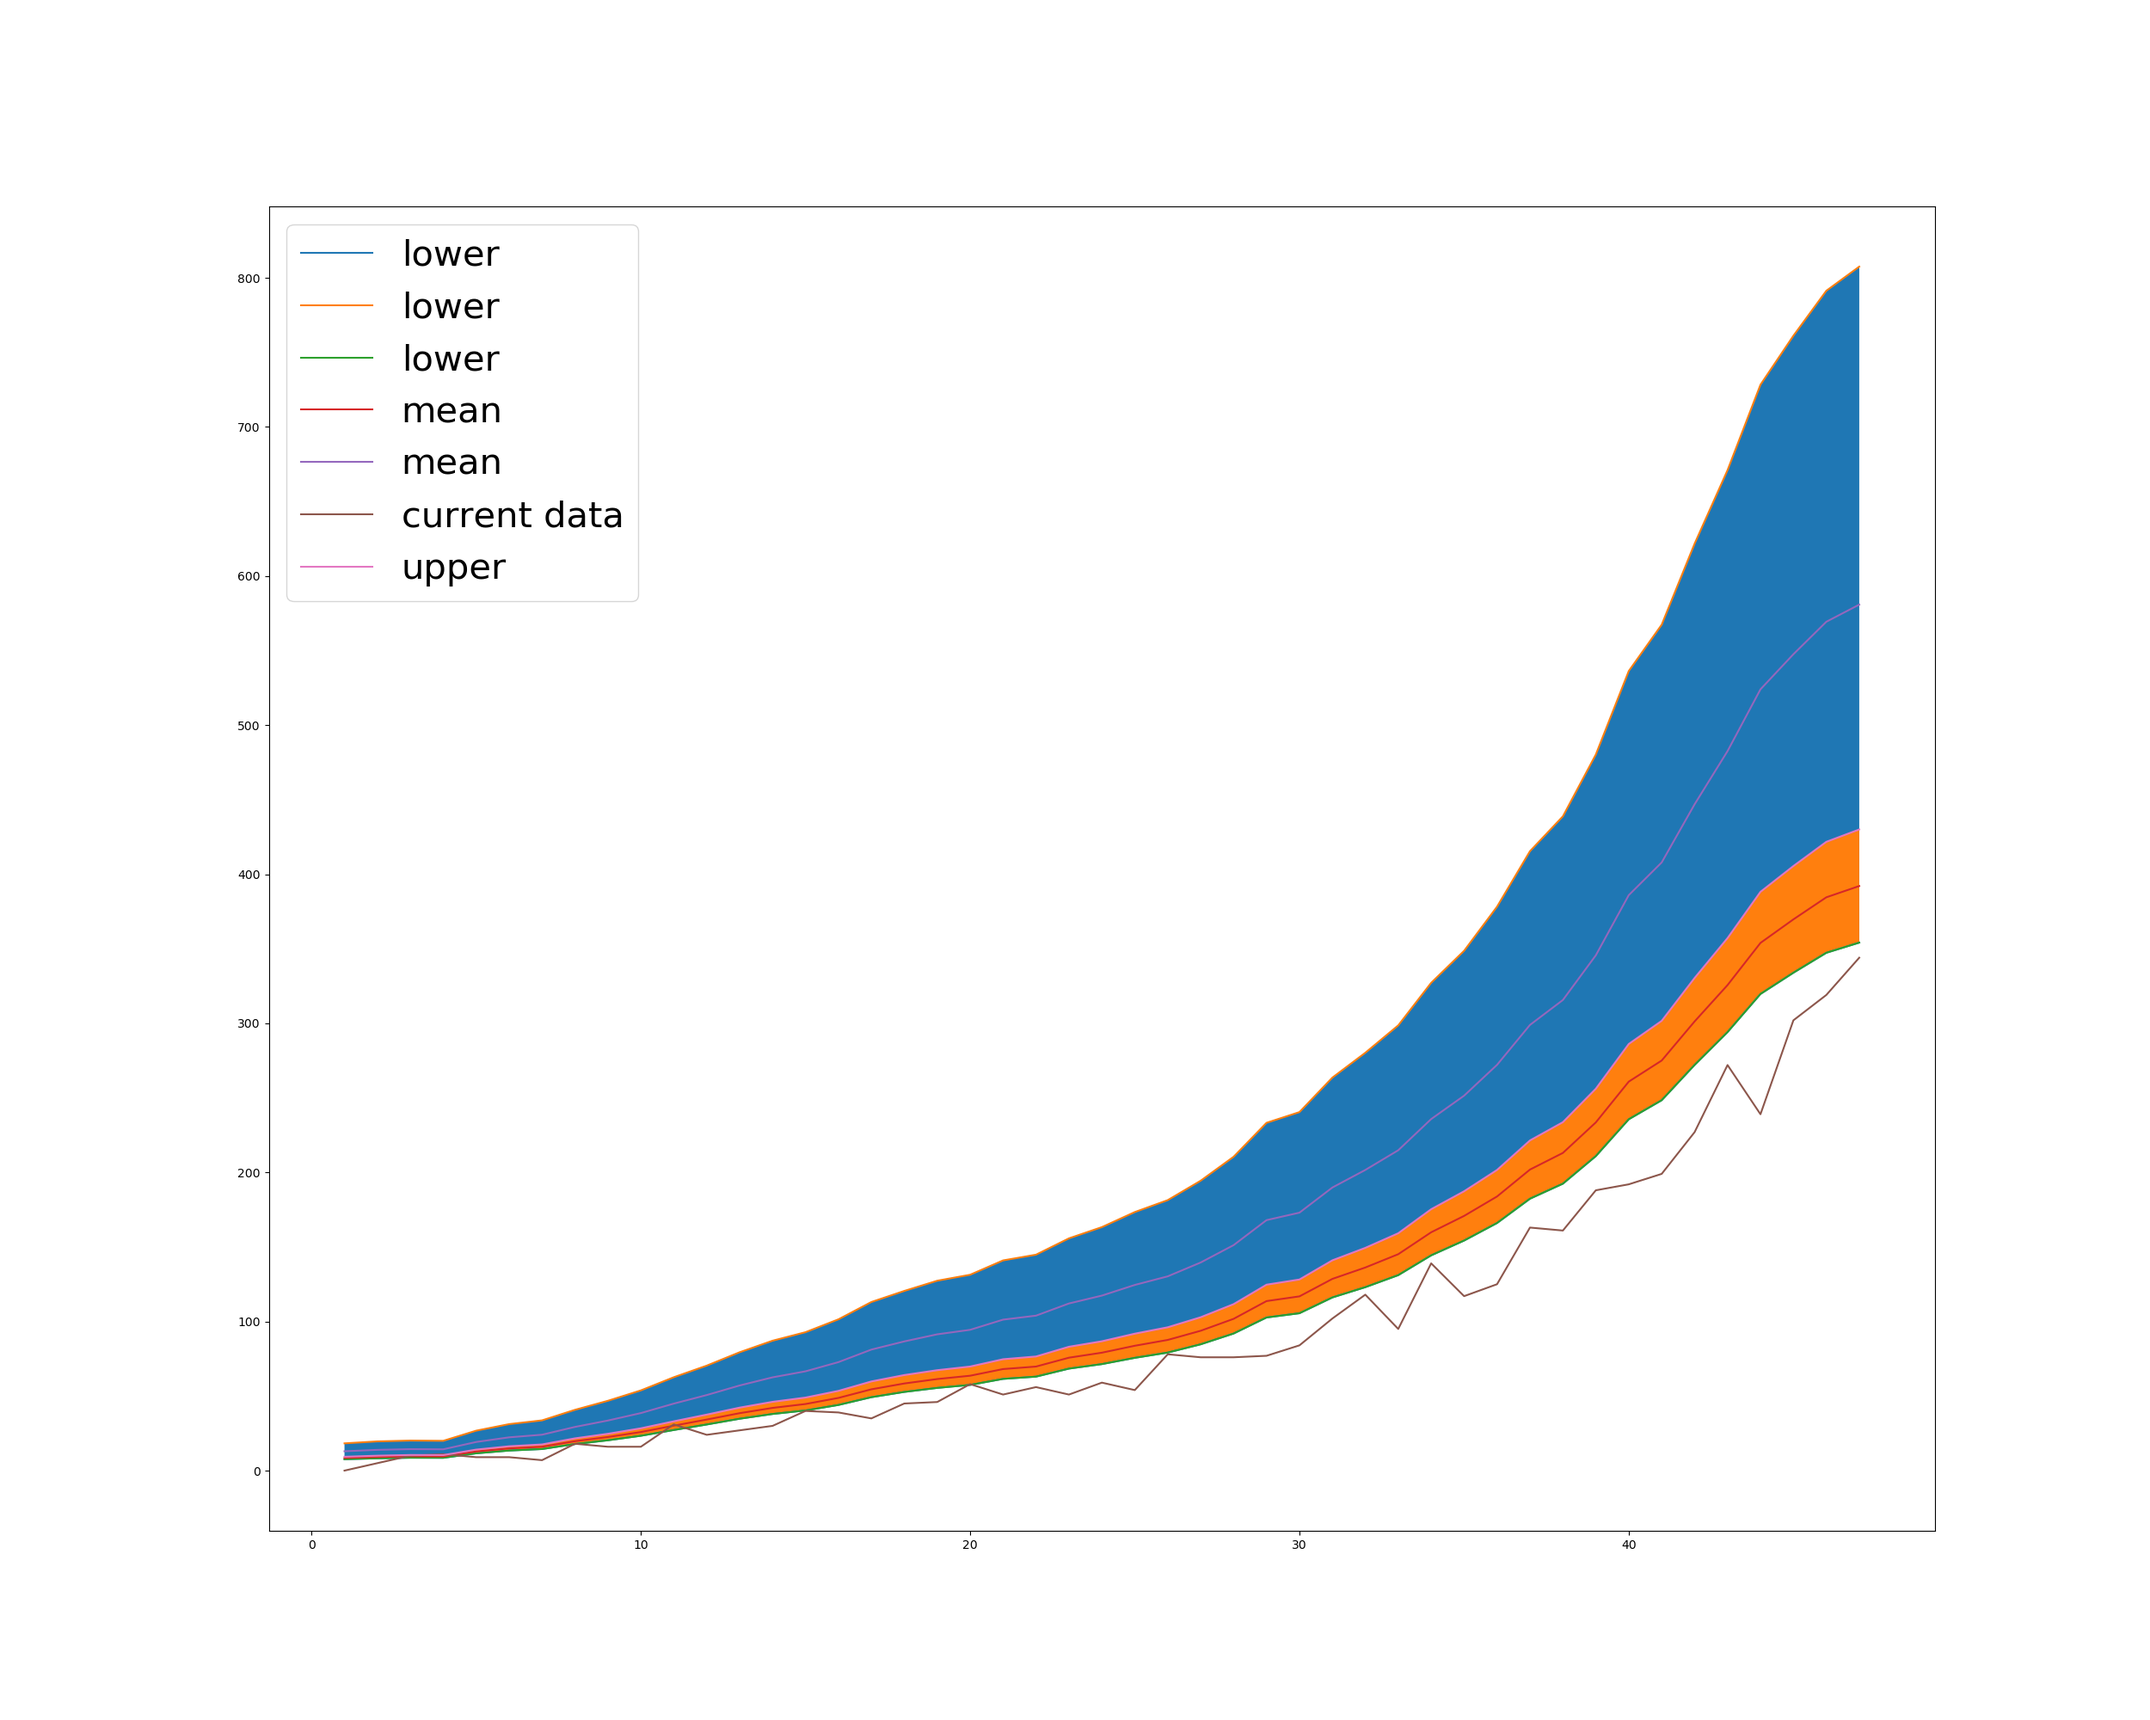
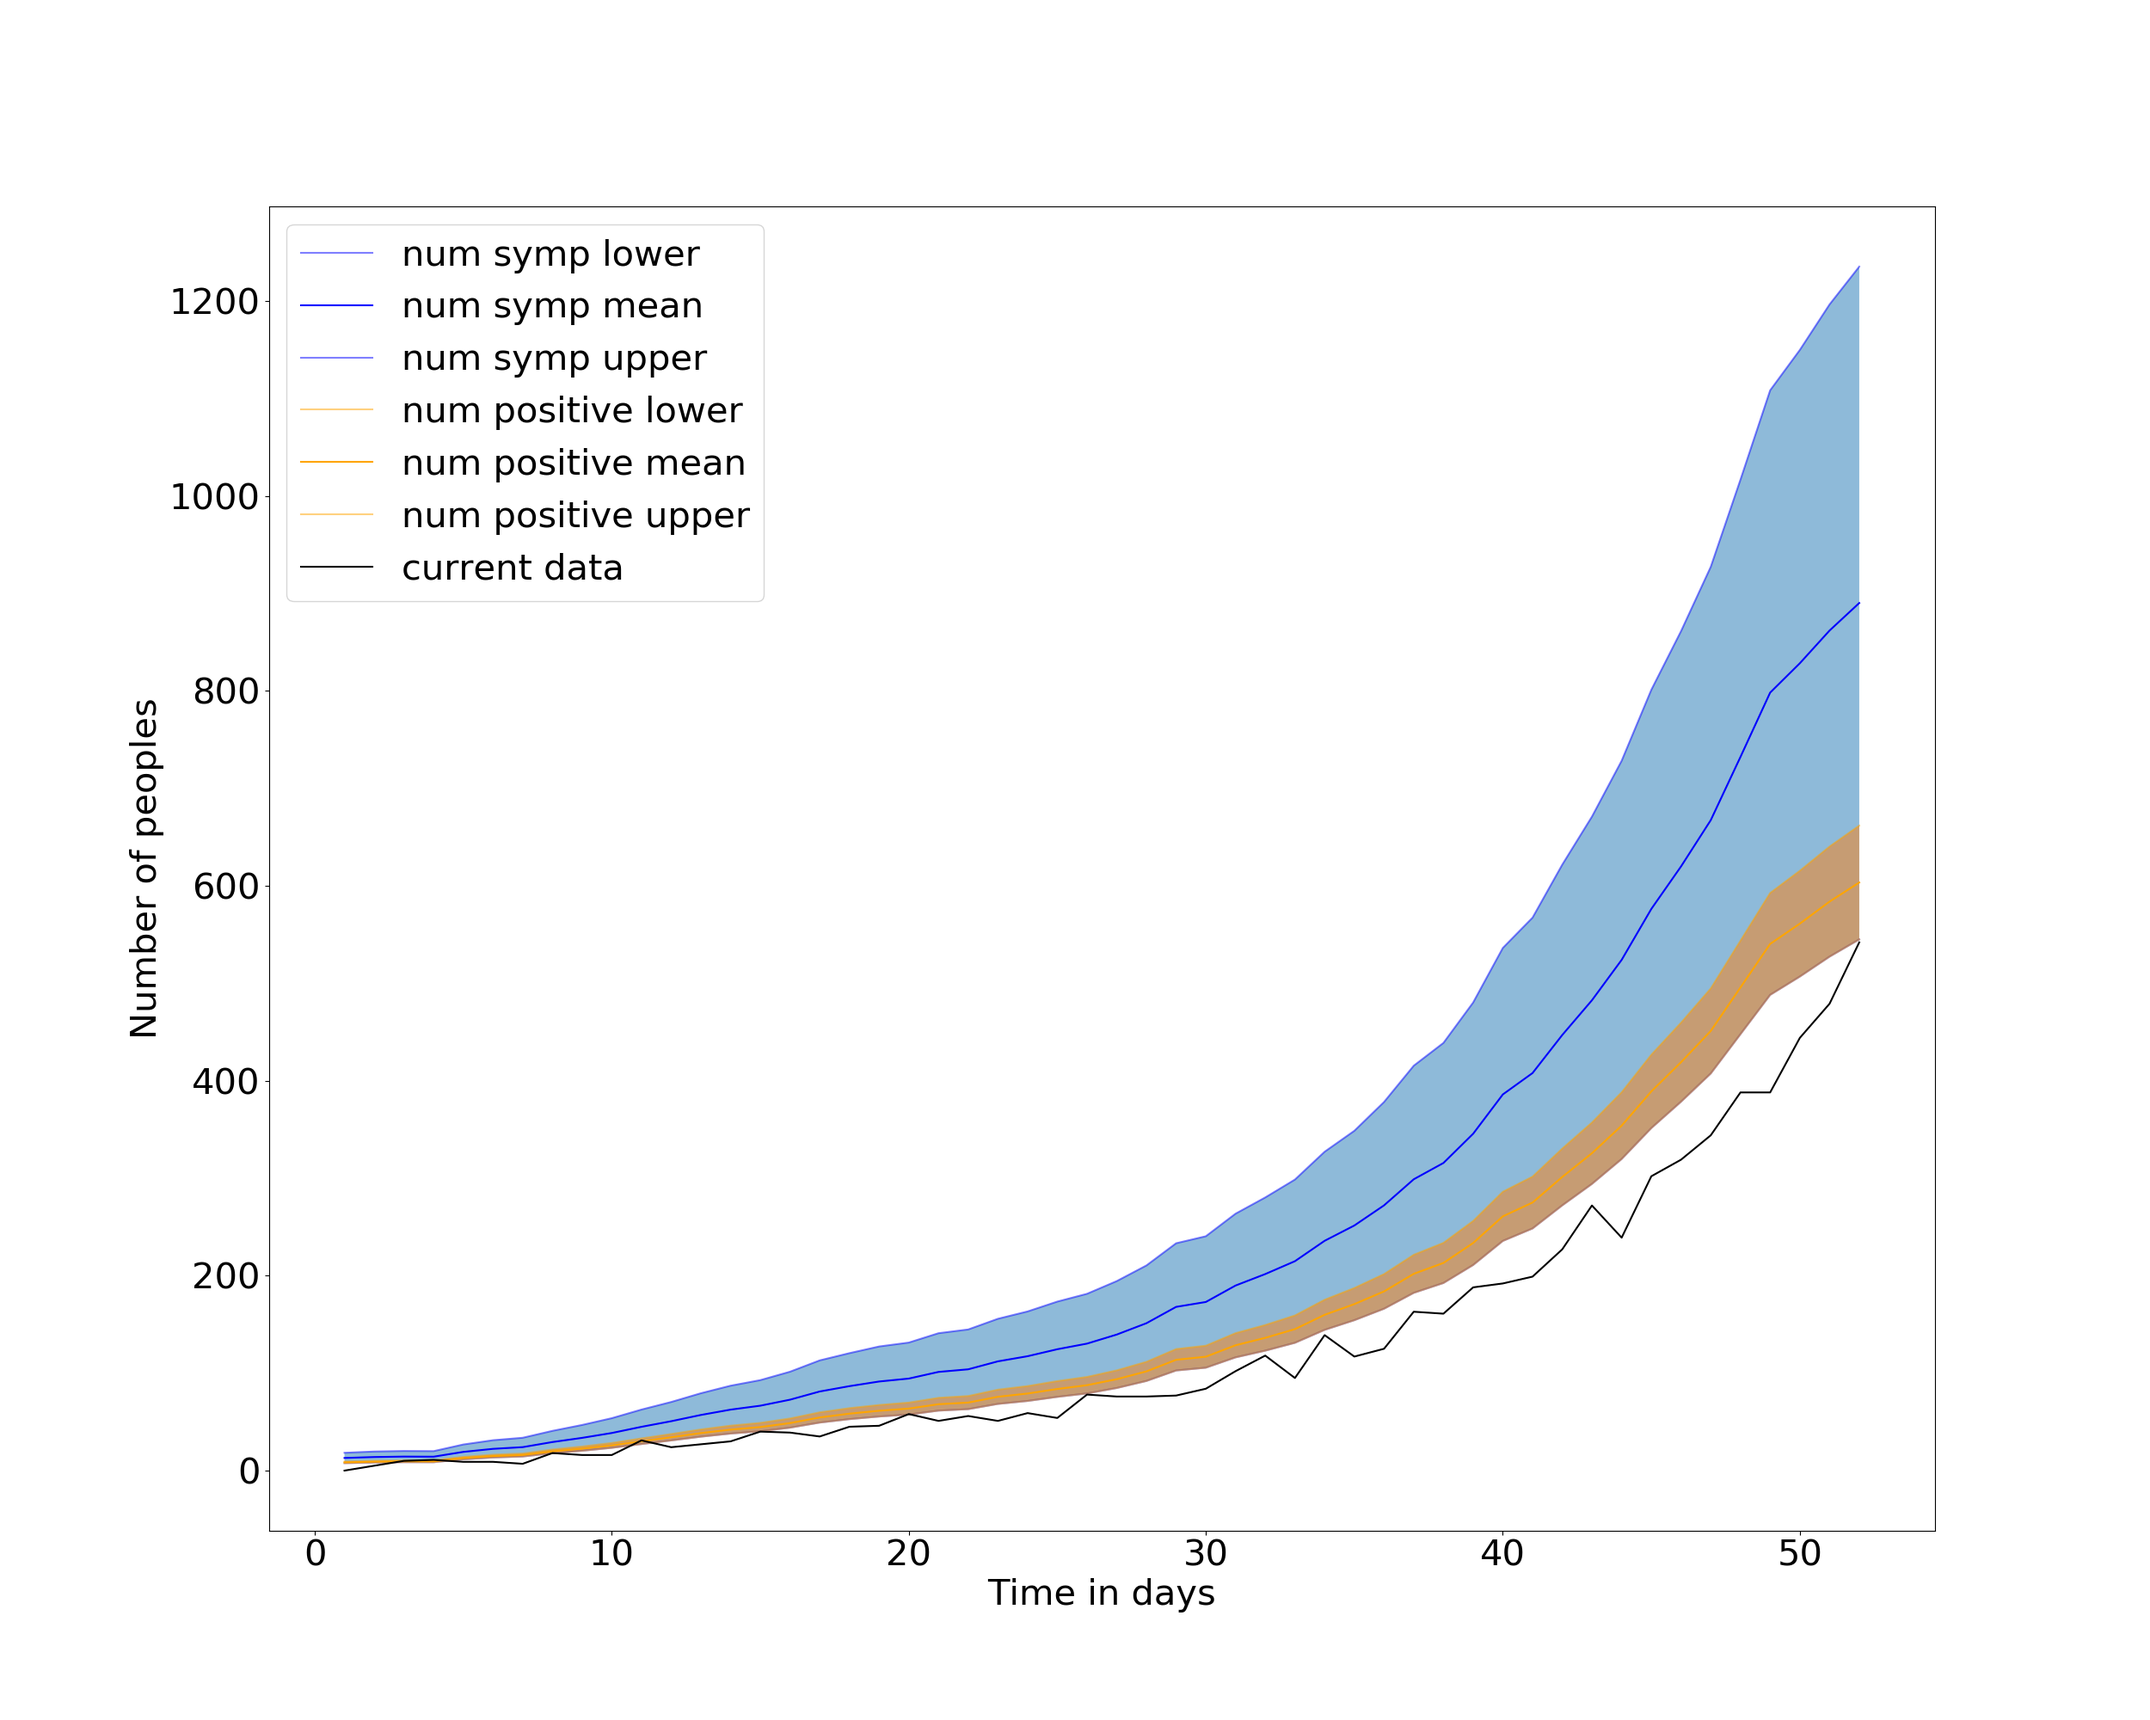
clean

diff --git a/Python/bayesian_law/plot.py b/Python/bayesian_law/plot.py
@@ -120,19 +120,23 @@ def plot_current_data(self):
     fig = plt.figure(figsize=(25,20))
 
     ax = plt.subplot()
-    ax.plot(self.dataframe['day'], self.dataframe['num_sym_lower'], label='num symp lower')
-    ax.plot(self.dataframe['day'], self.dataframe['num_sym_upper'], label='lower')
-    ax.fill_between(self.dataframe['day'], self.dataframe['num_sym_lower'], self.dataframe['num_sym_upper'])
-    ax.plot(self.dataframe['day'], self.dataframe['num_positive_lower'], label='lower')
-    ax.plot(self.dataframe['day'], self.dataframe['num_positive_mean'], label='mean')
-    ax.plot(self.dataframe['day'], self.dataframe['num_sym_mean'], label='mean')
-    ax.plot(self.dataframe['day'], self.dataframe['num_positive'], label='current data')
-    ax.plot(self.dataframe['day'], self.dataframe['num_positive_upper'], label='upper')
-    ax.fill_between(self.dataframe['day'], self.dataframe['num_positive_lower'], self.dataframe['num_positive_upper'])
+    ax.plot(self.dataframe['day'], self.dataframe['num_sym_lower'],color='blue', label='num symp lower',alpha=0.5)
+    ax.plot(self.dataframe['day'], self.dataframe['num_sym_mean'],color='blue', label='num symp mean')
+    ax.plot(self.dataframe['day'], self.dataframe['num_sym_upper'],color='blue', label='num symp upper',alpha=0.5)
+    ax.fill_between(self.dataframe['day'], self.dataframe['num_sym_lower'], self.dataframe['num_sym_upper'],alpha=0.5)
+    ax.plot(self.dataframe['day'], self.dataframe['num_positive_lower'], color='orange',label='num positive lower',alpha=0.5)
+    ax.plot(self.dataframe['day'], self.dataframe['num_positive_mean'], color='orange', label='num positive mean')
+    ax.plot(self.dataframe['day'], self.dataframe['num_positive_upper'], color='orange', label='num positive upper',alpha=0.5)
+    ax.plot(self.dataframe['day'], self.dataframe['num_positive'],color='black', label='current data')
+    ax.fill_between(self.dataframe['day'], self.dataframe['num_positive_lower'], self.dataframe['num_positive_upper'],alpha=0.5)
     pr_mean = self.dataframe['num_sym_lower']
     next_pr_mean = (2*pr_mean[len(pr_mean)-1]-pr_mean[len(pr_mean)-2])
     next_nb_tested = next_pr_mean*self.ran
-    # print(next_nb_tested)
+    plt.xlabel('Time in days',fontsize=30)
+    plt.ylabel('Number of peoples',fontsize=30)
+
+    plt.xticks(fontsize=30)
+    plt.yticks(fontsize=30)
     ax.legend(fontsize=30)
     fig.savefig('Plot/current_data_with_uncertainty.png')
     plt.close()
